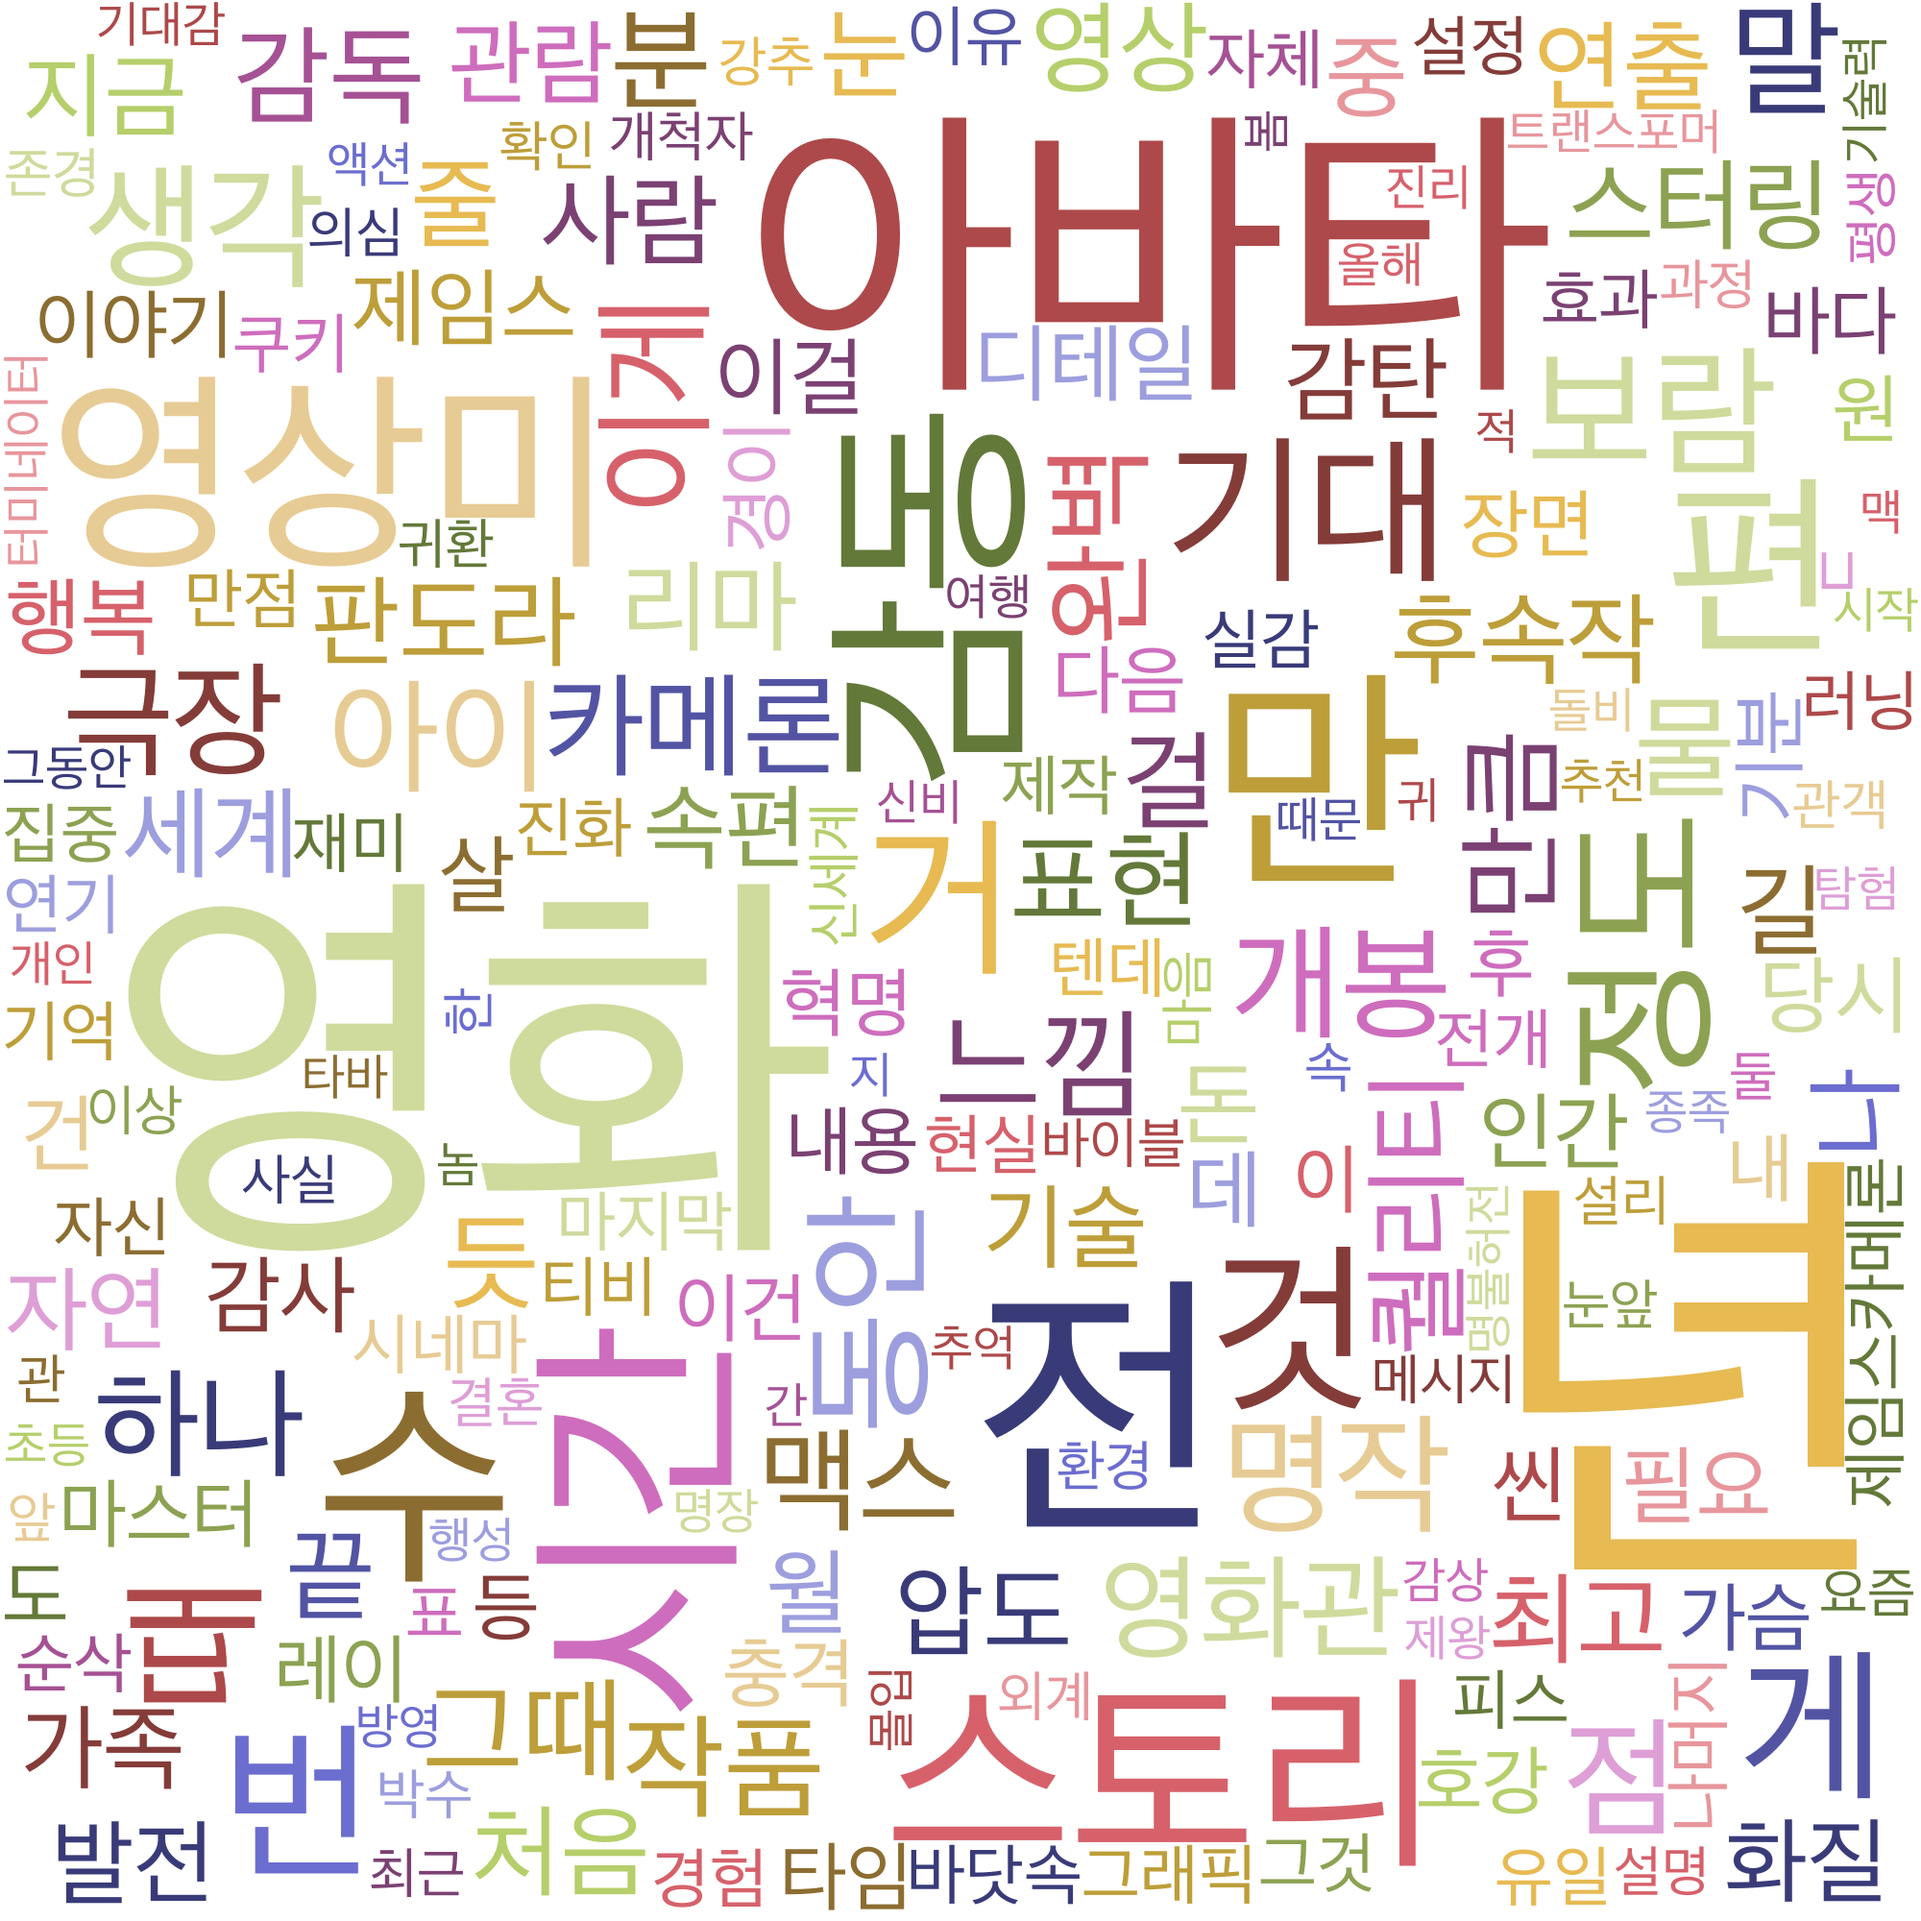
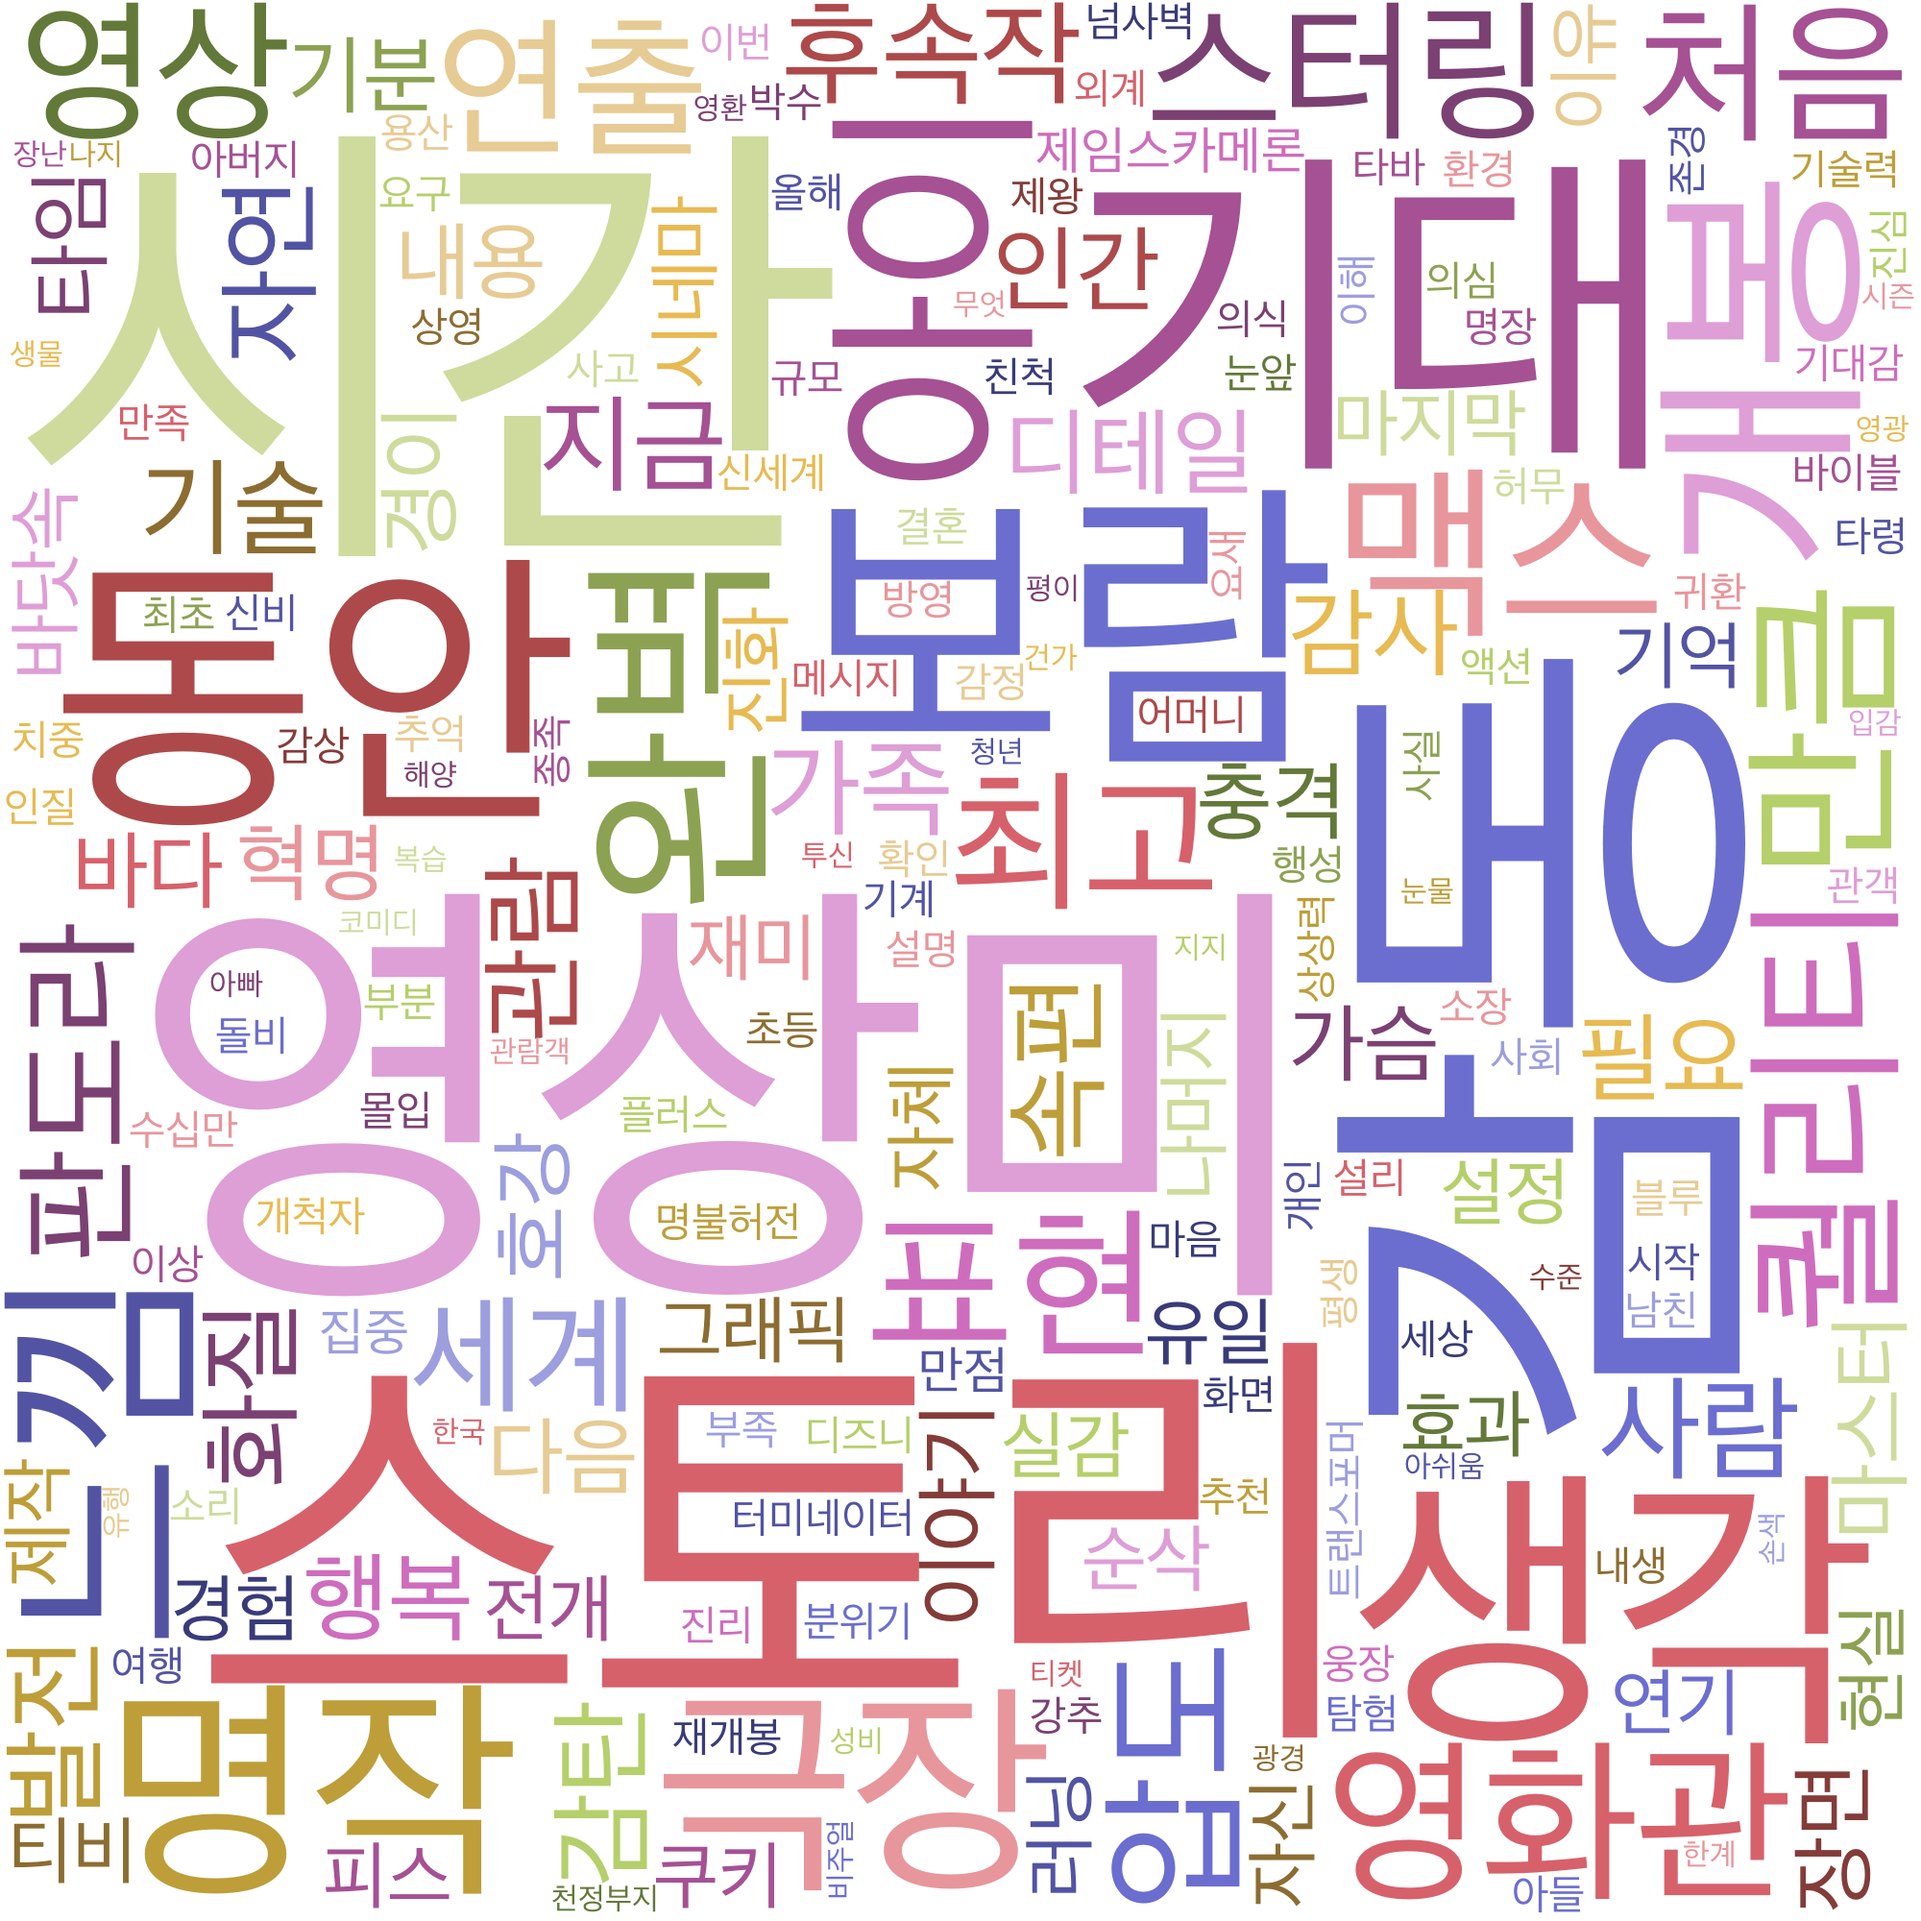
Post wordcloud using Streamlit and OpenCV

diff --git a/make_wordcloud.py b/make_wordcloud.py
@@ -1,0 +1,104 @@
+from db_handler import DB
+from wordcloud import WordCloud
+import streamlit as st
+import time
+
+import numpy as np
+import pandas as pd
+import os
+import re
+import seaborn as sns
+
+import matplotlib.pyplot as plt
+from collections import Counter
+from konlpy.tag import Hannanum, Mecab, Kkma
+from PIL import Image
+
+from nltk.tokenize import word_tokenize
+from nltk.tokenize import WordPunctTokenizer
+
+
+
+
+def make_wc(txtfile, 
+            # names,
+            # not_expel, 
+            excludings,
+           wordcloud):
+    processor = Mecab()
+    strings = ''
+    pattern = r"[^ㄱ-ㅎㅏ-ㅣa-zA-Z가-힣0-9 ]"
+    regex = re.compile(pattern)
+    
+    
+    # for item in names:
+    #     strings = re.sub(item,'',strings)
+        
+    
+    strings = txtfile
+    nouns = processor.nouns(strings)
+    
+    new_nouns = []
+    
+    for item in nouns:
+        if len(item) != 1 :
+        # or item in not_expel:
+            new_nouns.append(item)
+
+    for item in excludings:
+        if item in new_nouns:
+            while item in new_nouns:
+                new_nouns.remove(item)
+
+    counter = Counter(new_nouns)         
+
+    
+    gen = wordcloud.generate_from_frequencies(counter)
+    plt.figure(figsize=(20,20))
+    plt.imshow(gen)
+    wordcloud.to_file('./wordcloud_pics/picture.png')
+    return gen
+
+
+
+
+
+db = DB()
+
+
+# searching_word = input("=== NOTE : 검색할 단어를 입력하세요. 단어를 포함한 리뷰를 불러옵니다. ===")
+
+
+
+searching_word = '13'
+query = f'''
+        SELECT * FROM Reviews
+        WHERE (POSITION('{searching_word}' in content) > 0);
+'''
+
+db.execute(query)
+contents = db.fetchall()
+
+all_string = ""
+for content in contents:
+    all_string += (content[1][1:-1] + ' ')
+
+wordcloud = WordCloud(
+                font_path = '/Library/Fonts/AppleSDGothicNeo.ttc', 
+                          width=1000, height=1000, scale=2.0, 
+                          max_font_size=250, colormap = 'tab20b', 
+                          max_words = 200, background_color='white')
+
+
+excludings = [
+    '아바타','제임스','카메론','그동안', '감독', '최근', '이게', '이걸', '과정', '그때', '그것', '요즘', '리마'
+    ,'영화','작품','텐데','때문','하나','이건','정도','하나', '당시', '레이', '동안', '개봉', '러닝', '타임'
+
+]
+make_wc(all_string, excludings, wordcloud)
+
+img = Image.open('./wordcloud_pics/picture.png')
+
+
+st.write(f"\"{searching_word}\" 문자열을 포함하는 리뷰들의 워드클라우드")
+st.image(img)

diff --git a/make_wc.py b/make_wc.py
@@ -53,6 +53,7 @@ def make_wc(txtfile,
     gen = wordcloud.generate_from_frequencies(counter)
     plt.figure(figsize=(20,20))
     plt.imshow(gen)
-    wordcloud.to_file('./wordcloud_pics/picture.png')
+    # wordcloud.to_file('./wordcloud_pics/picture.png')
+    return gen
 
 

diff --git a/streamlit_practise.py b/streamlit_practise.py
@@ -1,0 +1,10 @@
+import streamlit as st
+import pandas as pd
+import cv2
+from matplotlib import pyplot as plt
+from PIL import Image
+
+
+img = Image.open('./wordcloud_pics/picture.png')
+
+st.image(img)
